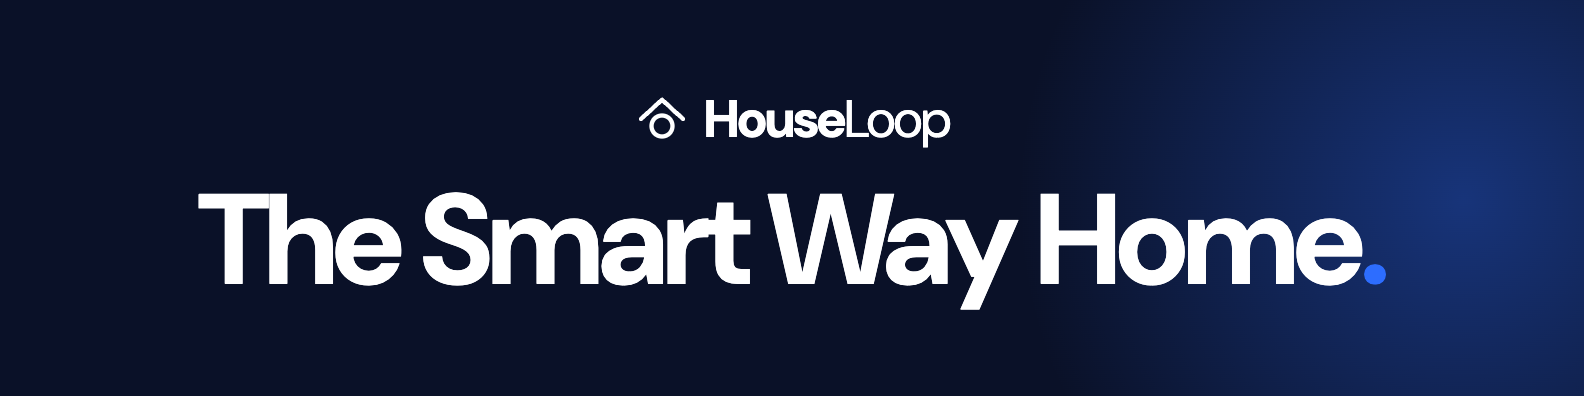
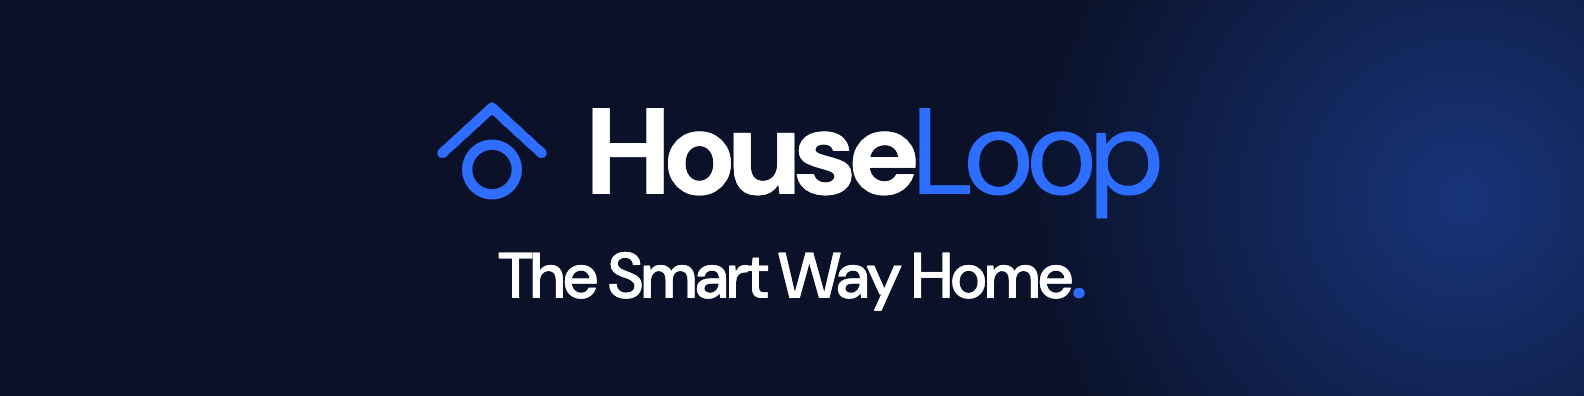
docs: auto-mirror on commit 17a8585b3b
mirrored from monorepo docs-site/ (auto)

Changed region(s): [[0.1237, 0.2424, 0.8971, 0.7879]]

diff --git a/images/brand/banner-source.html b/images/brand/banner-source.html
@@ -3,6 +3,11 @@
 <!--
   HOUSELOOP LINKEDIN BANNER — the render source.
 
+  ⭐ THE HIERARCHY IS THE WORDMARK, NOT THE TAGLINE (Zach, 2026-09-11): "the hero text the smart way
+  home with the blue period UNDER a big HouseLoop wordmark that is black and blue, with the blue
+  HouseLoop logo to the left." The first cut had this the other way round — a 52px lockup over a
+  128px headline. The wordmark is the hero; the tagline sits under it.
+
   Every value is LIFTED from the live site, never drawn here:
     · the mark        components/ui/HouseLoopLogo.tsx   (chevron M4 16 L16 5 L28 16, circle 16/20/r6, stroke 2.5 round)
     · the wordmark    components/ui/HouseLoopWordmark.tsx ("House" bold + "Loop" normal weight)
@@ -23,82 +28,83 @@
   * { margin:0; padding:0; box-sizing:border-box; }
   body { background:#888; font-family:"DM Sans", ui-sans-serif, system-ui, sans-serif; }
 
-  .banner {
-    position:relative; overflow:hidden;
-    display:flex; flex-direction:column; align-items:center; justify-content:center;
-  }
-  .banner.navy  { background:var(--hl-navy); }
+  .banner { position:relative; overflow:hidden; display:flex; align-items:center; justify-content:center; }
   .banner.white { background:#ffffff; }
+  .banner.navy  { background:var(--hl-navy); }
 
-  /* ⭐ THE ONE DECORATION, AND IT IS THE MARK ITSELF. A soft brand-blue glow bled off the right
-     edge, echoing the loop. No gradients across the type, no stock photography, no green. */
+  /* The one decoration: a soft brand-blue glow bled off the right edge, echoing the loop.
+     No gradients across the type, no stock photography, no green. */
   .glow { position:absolute; border-radius:50%; pointer-events:none; }
-  .navy  .glow { background:radial-gradient(circle, rgba(45,109,255,.38) 0%, rgba(45,109,255,0) 70%); }
   .white .glow { background:radial-gradient(circle, rgba(45,109,255,.14) 0%, rgba(45,109,255,0) 70%); }
+  .navy  .glow { background:radial-gradient(circle, rgba(45,109,255,.38) 0%, rgba(45,109,255,0) 70%); }
 
   .stack { position:relative; display:flex; flex-direction:column; align-items:center; }
 
-  /* THE LOCKUP — mark + letters on one baseline, exactly as the header renders it. */
+  /* THE LOCKUP — the hero. Mark to the LEFT of the letters, on one baseline. */
   .lockup { display:flex; align-items:center; }
-  .wordmark { font-weight:700; letter-spacing:-0.025em; line-height:1; }
-  .navy  .wordmark { color:#ffffff; }
-  .navy  .wordmark .loop { font-weight:400; color:#ffffff; }
+  .wordmark { font-weight:700; letter-spacing:-0.03em; line-height:1; }
   .white .wordmark { color:var(--hl-navy); }
   .white .wordmark .loop { font-weight:400; color:var(--hl-brand); }
+  .navy  .wordmark { color:#ffffff; }
+  .navy  .wordmark .loop { font-weight:400; color:var(--hl-brand); }
 
-  /* THE HEADLINE — the big letters, with the brand-blue period. */
-  .headline { font-weight:700; letter-spacing:-0.035em; line-height:1; white-space:nowrap; }
-  .navy  .headline { color:#ffffff; }
-  .white .headline { color:var(--hl-navy); }
-  .headline .dot { color:var(--hl-brand); }
+  /* THE TAGLINE — under the wordmark, with the brand-blue period. */
+  .tagline { font-weight:500; letter-spacing:-0.02em; line-height:1; white-space:nowrap; }
+  .white .tagline { color:var(--hl-navy); }
+  .navy  .tagline { color:#ffffff; }
+  .tagline .dot { color:var(--hl-brand); font-weight:700; }
 </style></head>
 <body>
 
-<!-- ══ 1584 × 396 — the LinkedIn profile banner (4:1) ══ -->
-<div class="banner navy" id="profile-navy" style="width:1584px;height:396px;">
-  <div class="glow" style="width:900px;height:900px;right:-330px;top:-250px;"></div>
-  <div class="stack" style="gap:30px;">
-    <div class="lockup" style="gap:14px;">
-      <svg width="56" height="56" viewBox="0 0 32 32" fill="none">
-        <path d="M4 16 L16 5 L28 16" stroke="#ffffff" stroke-width="2.5" stroke-linecap="round" stroke-linejoin="round"/>
-        <circle cx="16" cy="20" r="6" stroke="#ffffff" stroke-width="2.5" fill="none"/>
-      </svg>
-      <span class="wordmark" style="font-size:52px;">House<span class="loop">Loop</span></span>
-    </div>
-    <div class="headline" style="font-size:128px;">The Smart Way Home<span class="dot">.</span></div>
-  </div>
-</div>
-
-<!-- ══ 1584 × 396 — white ground ══ -->
+<!-- ══ 1584 × 396 — the LinkedIn profile banner (4:1). THE PRIMARY. ══ -->
 <div class="banner white" id="profile-white" style="width:1584px;height:396px;">
   <div class="glow" style="width:900px;height:900px;right:-330px;top:-250px;"></div>
-  <div class="stack" style="gap:30px;">
-    <div class="lockup" style="gap:14px;">
-      <svg width="56" height="56" viewBox="0 0 32 32" fill="none">
+  <div class="stack" style="gap:26px;">
+    <div class="lockup" style="gap:30px;">
+      <svg width="132" height="132" viewBox="0 0 32 32" fill="none">
         <path d="M4 16 L16 5 L28 16" stroke="#2D6DFF" stroke-width="2.5" stroke-linecap="round" stroke-linejoin="round"/>
         <circle cx="16" cy="20" r="6" stroke="#2D6DFF" stroke-width="2.5" fill="none"/>
       </svg>
-      <span class="wordmark" style="font-size:52px;">House<span class="loop">Loop</span></span>
+      <span class="wordmark" style="font-size:122px;">House<span class="loop">Loop</span></span>
     </div>
-    <div class="headline" style="font-size:128px;">The Smart Way Home<span class="dot">.</span></div>
+    <div class="tagline" style="font-size:64px;">The Smart Way Home<span class="dot">.</span></div>
+  </div>
+</div>
+
+<!-- ══ 1584 × 396 — navy ground, the dark alternate ══
+     ⚠ "House" goes WHITE here because black on navy is invisible; "Loop" KEEPS its brand blue,
+     which the site's own small-size lockup does not do. At 24px the site turns the whole thing
+     white because blue on navy is too dim to read — at 122px the same blue carries easily, so the
+     two-colour wordmark survives. The rule is about legibility at size, not about the colour. -->
+<div class="banner navy" id="profile-navy" style="width:1584px;height:396px;">
+  <div class="glow" style="width:900px;height:900px;right:-330px;top:-250px;"></div>
+  <div class="stack" style="gap:26px;">
+    <div class="lockup" style="gap:30px;">
+      <svg width="132" height="132" viewBox="0 0 32 32" fill="none">
+        <path d="M4 16 L16 5 L28 16" stroke="#2D6DFF" stroke-width="2.5" stroke-linecap="round" stroke-linejoin="round"/>
+        <circle cx="16" cy="20" r="6" stroke="#2D6DFF" stroke-width="2.5" fill="none"/>
+      </svg>
+      <span class="wordmark" style="font-size:122px;">House<span class="loop">Loop</span></span>
+    </div>
+    <div class="tagline" style="font-size:64px;">The Smart Way Home<span class="dot">.</span></div>
   </div>
 </div>
 
 <!-- ══ 1128 × 191 — the LinkedIn COMPANY PAGE cover (5.9:1) ══
-     ⚠ A different layout, not the same one scaled. At 191px tall a stacked lockup-above-headline
+     ⚠ A different layout, not the same one scaled. At 191px tall a stacked lockup-above-tagline
      leaves both halves tiny, and LinkedIn overlays the page's logo tile on the lower LEFT of this
      image — so the composition sits RIGHT of centre and the left third is deliberately empty. -->
-<div class="banner navy" id="company-navy" style="width:1128px;height:191px;align-items:flex-end;">
+<div class="banner white" id="company-white" style="width:1128px;height:191px;justify-content:flex-end;">
   <div class="glow" style="width:520px;height:520px;right:-190px;top:-165px;"></div>
-  <div class="stack" style="gap:14px;align-items:flex-start;margin-right:64px;margin-bottom:0;">
-    <div class="lockup" style="gap:9px;">
-      <svg width="30" height="30" viewBox="0 0 32 32" fill="none">
-        <path d="M4 16 L16 5 L28 16" stroke="#ffffff" stroke-width="2.5" stroke-linecap="round" stroke-linejoin="round"/>
-        <circle cx="16" cy="20" r="6" stroke="#ffffff" stroke-width="2.5" fill="none"/>
+  <div class="stack" style="gap:11px;align-items:flex-start;margin-right:64px;">
+    <div class="lockup" style="gap:15px;">
+      <svg width="62" height="62" viewBox="0 0 32 32" fill="none">
+        <path d="M4 16 L16 5 L28 16" stroke="#2D6DFF" stroke-width="2.5" stroke-linecap="round" stroke-linejoin="round"/>
+        <circle cx="16" cy="20" r="6" stroke="#2D6DFF" stroke-width="2.5" fill="none"/>
       </svg>
-      <span class="wordmark" style="font-size:28px;">House<span class="loop">Loop</span></span>
+      <span class="wordmark" style="font-size:58px;">House<span class="loop">Loop</span></span>
     </div>
-    <div class="headline" style="font-size:52px;">The Smart Way Home<span class="dot">.</span></div>
+    <div class="tagline" style="font-size:30px;">The Smart Way Home<span class="dot">.</span></div>
   </div>
 </div>
 
